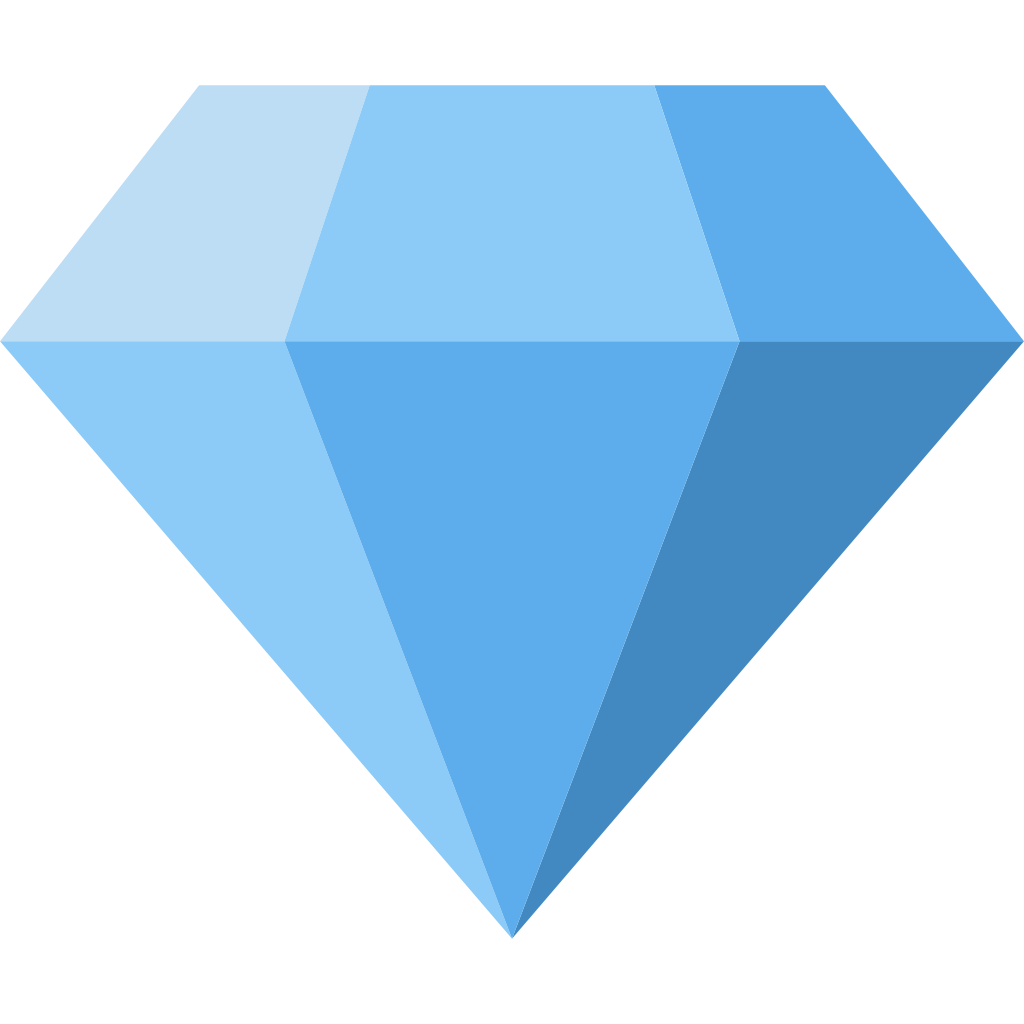
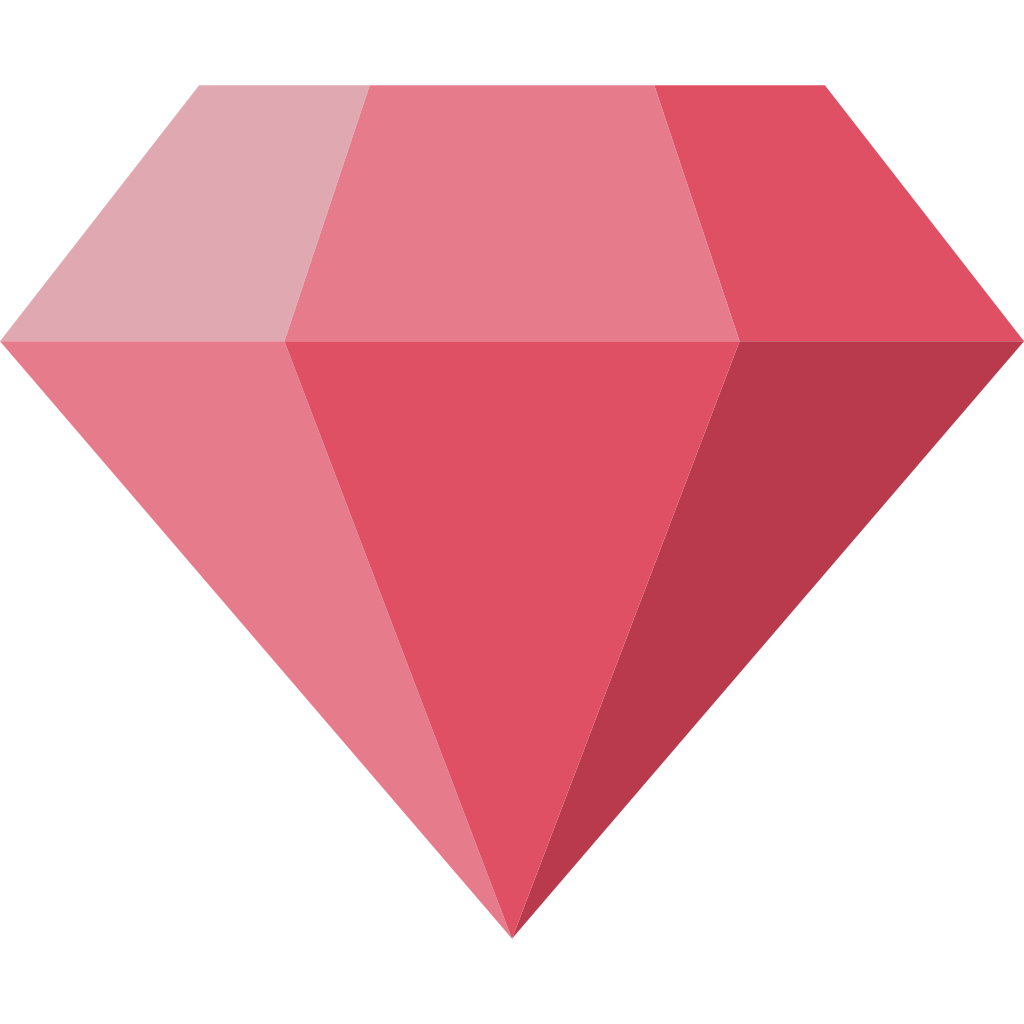
buttons look less shit
^^^^^

diff --git a/styles.css b/styles.css
@@ -23,30 +23,75 @@ body {
 }
 
 #gem {
+	position: relative;
+	left: 500px;
+	top: 200px;
 	margin-top: 10px;
 	height: 50px;
 	width: 50px;
-	filter: hue-rotate(145deg) brightness(80%) contrast(160%);
 }
 
 #scoreBoard {
+	position: relative;
+	left: 500px;
+	top: 190px;
 	margin-left: 10px;
 	color: white;
 	text-shadow: 3px 3px #3049b8;
 	font-family: "Grobold";
-	font-size: 42px;
+	font-size: 50px;
 }
 
 #evolvebutton {
-	color:black;
+	background-color: #4be7ff;
+	border: solid;
+	border-color: #3690f7;
+	border-width: 2 3px;
+    color: white;
+	padding: 15px 32px;
+	font-family: "Grobold";
+	text-shadow: 1px 1px #3049b8;
+	font-weight: bold; 
+	text-align: center;
 	text-decoration: none;
+	padding-top: 8px;
+    display: inline-block;
+    font-size: 16px;
+    margin: 4px 2px;
+	cursor: pointer;
 	border-radius: 25px;
+	height: 45px;
+	width: 225px;
+}
+
+#evolvebutton:hover {
+	box-shadow: 0 9px 12px 0 rgba(0,0,0,0.24), 0 12px 30px 0 rgba(0,0,0,0.19);
 }
 
 #upgradememes {
-	color:black;
+	background-color: #4be7ff;
+	border: solid;
+	border-color: #3690f7;
+	border-width: 2 3px;
+    color: white;
+	padding: 15px 32px;
+	font-family: "Grobold";
+	text-shadow: 1px 1px #3049b8;
+	font-weight: bold; 
+	text-align: center;
 	text-decoration: none;
+	padding-top: 8px;
+    display: inline-block;
+    font-size: 16px;
+    margin: 4px 2px;
+	cursor: pointer;
 	border-radius: 25px;
+	height: 45px;
+	width: 225px;
+}
+
+#upgradememes:hover {
+	box-shadow: 0 9px 12px 0 rgba(0,0,0,0.24), 0 12px 30px 0 rgba(0,0,0,0.19);
 }
 
 #wrapper {

diff --git a/index.html b/index.html
@@ -19,11 +19,11 @@
         </audio>
         <a id="sandbox" href="sandbox/sandbox.html">Sandbox</a>
         <br>
-        <button id="evolvebutton">evolve emoji ($50)</button>
+        <button id="evolvebutton">Evolve Emoji ($50)</button>
         <br>
-        <button id="upgradememes">lose money ($20)</button>
+        <button id="upgradememes">Upgrade Emoji ($20)</button>
         <br>
-        <img id="gem" src="src/images/emoji/gem.png"><span id="scoreBoard">0</span>
+        <img id="gem" src="src/images/emoji/gemborder.png"><span id="scoreBoard">0</span>
         <div id="wrapper">
             <canvas id="mainCanvas"></canvas>
         </div>
